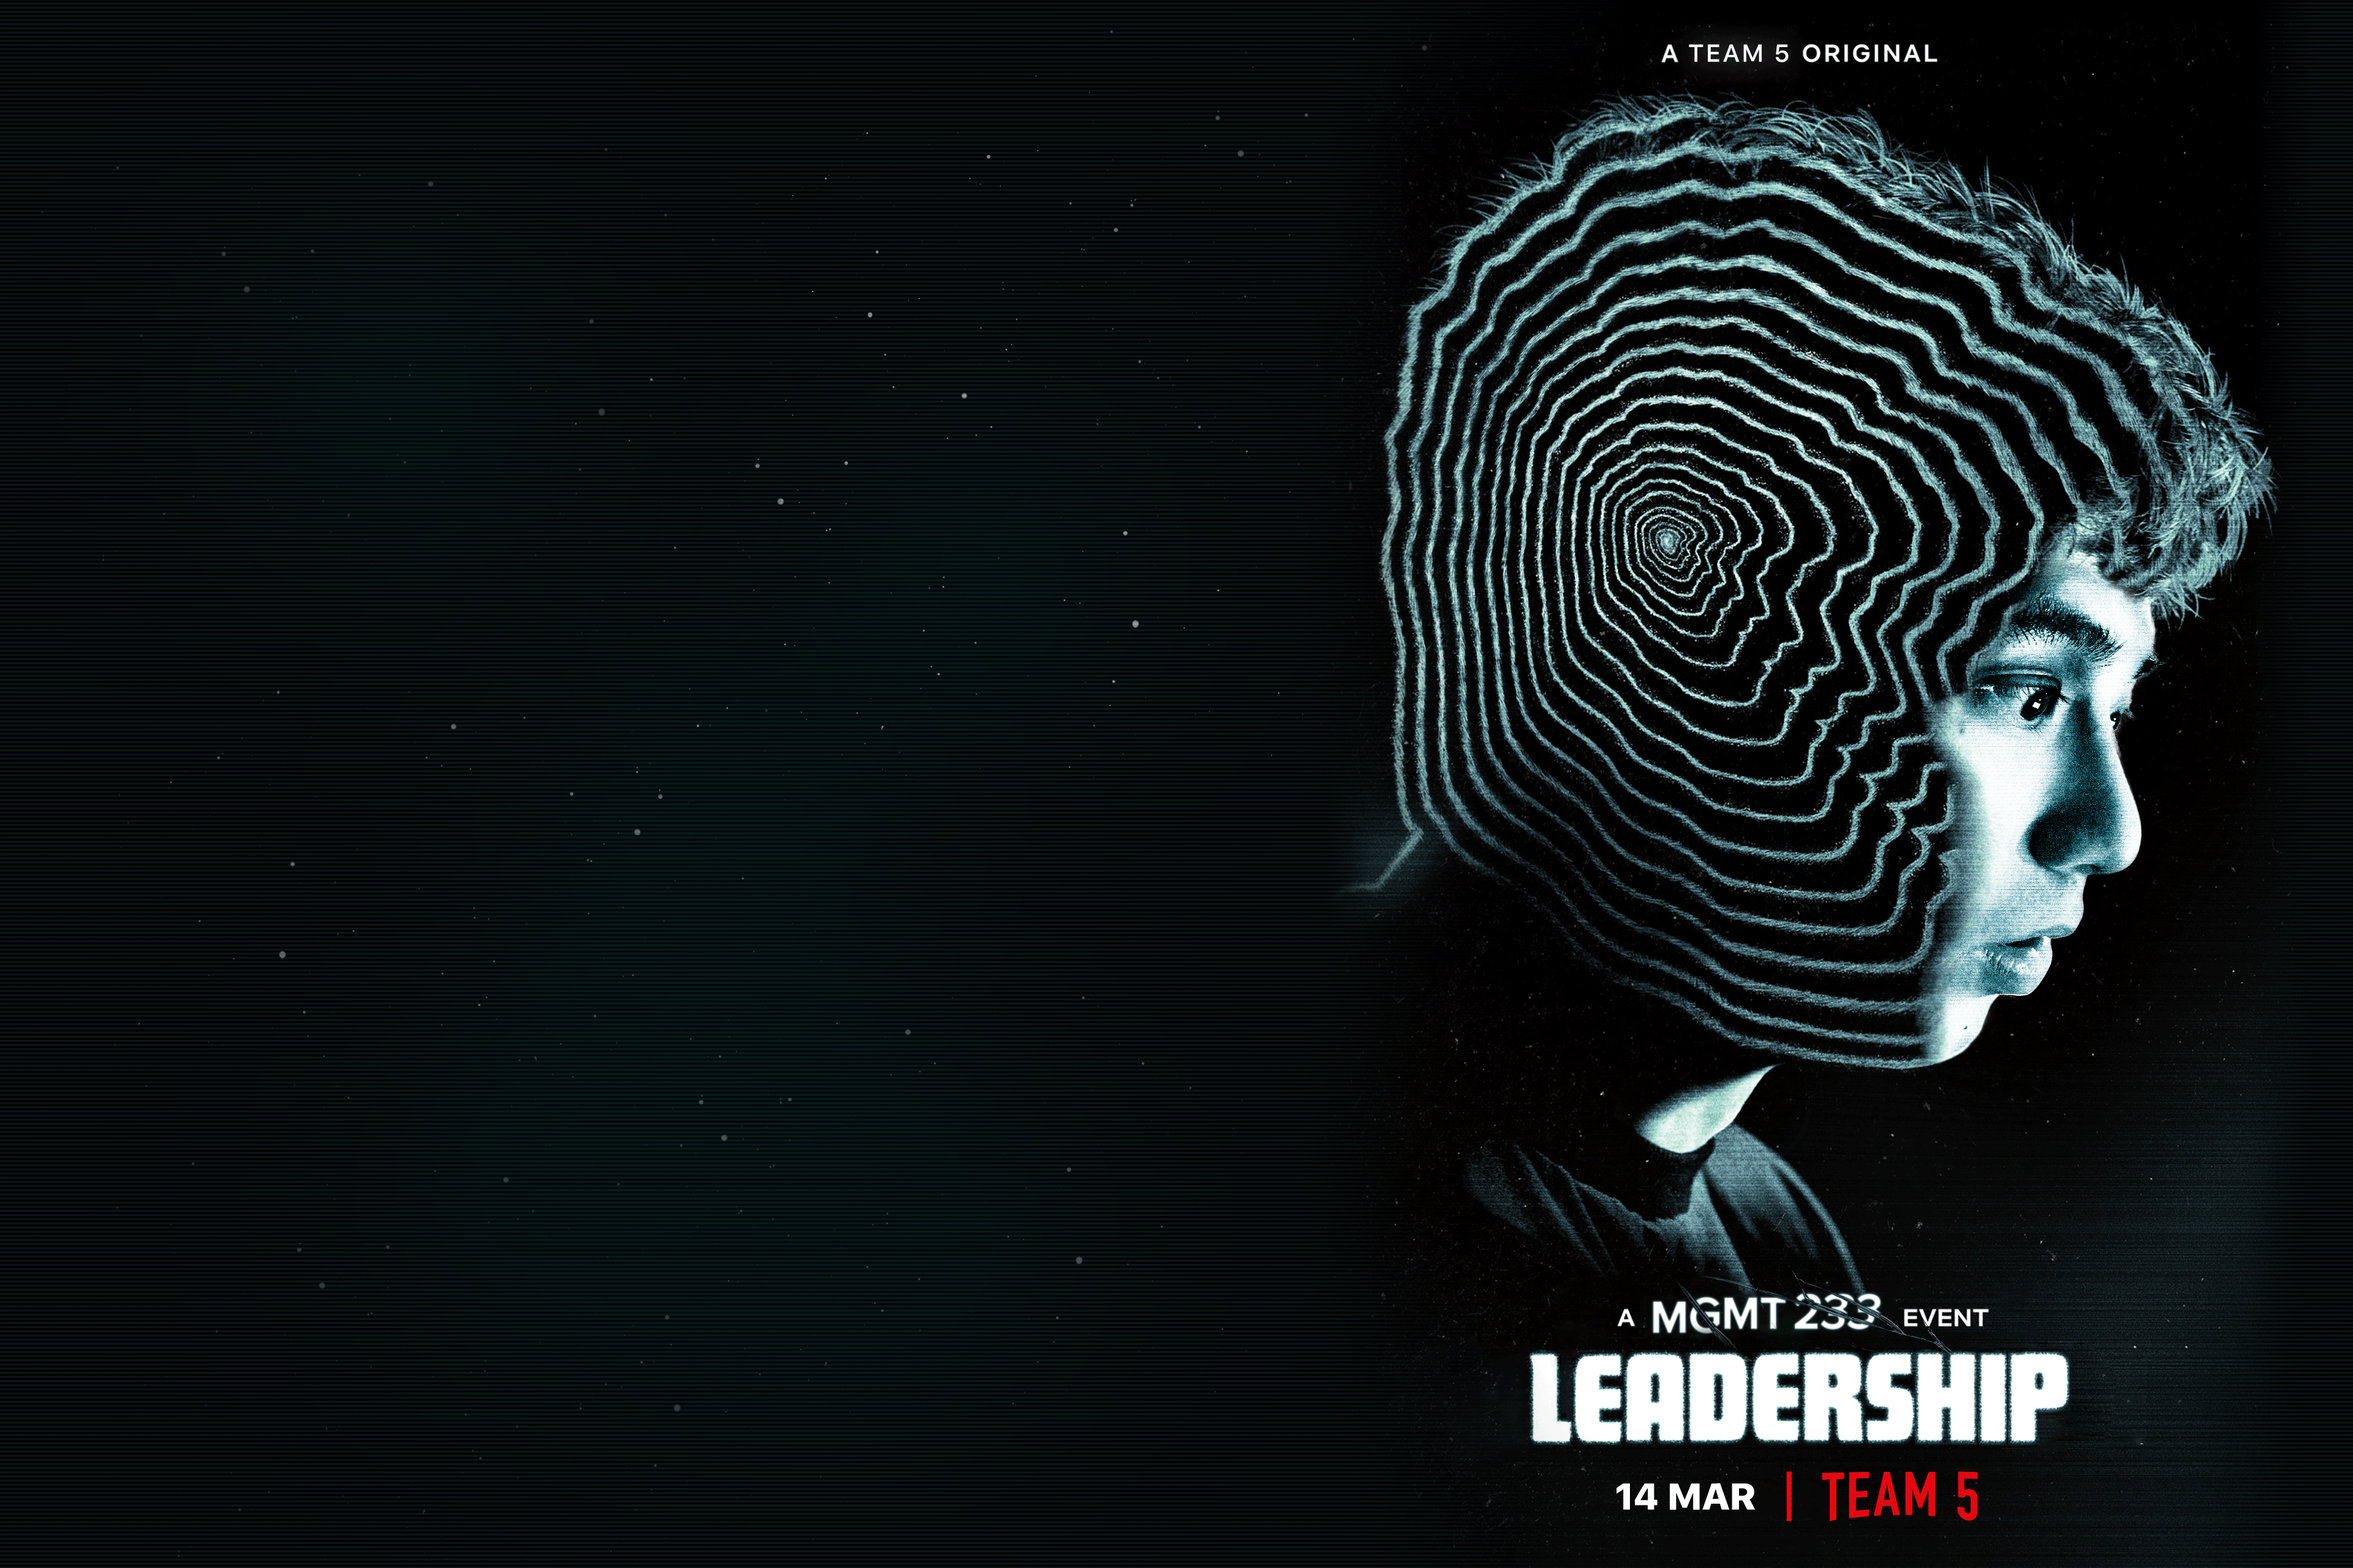
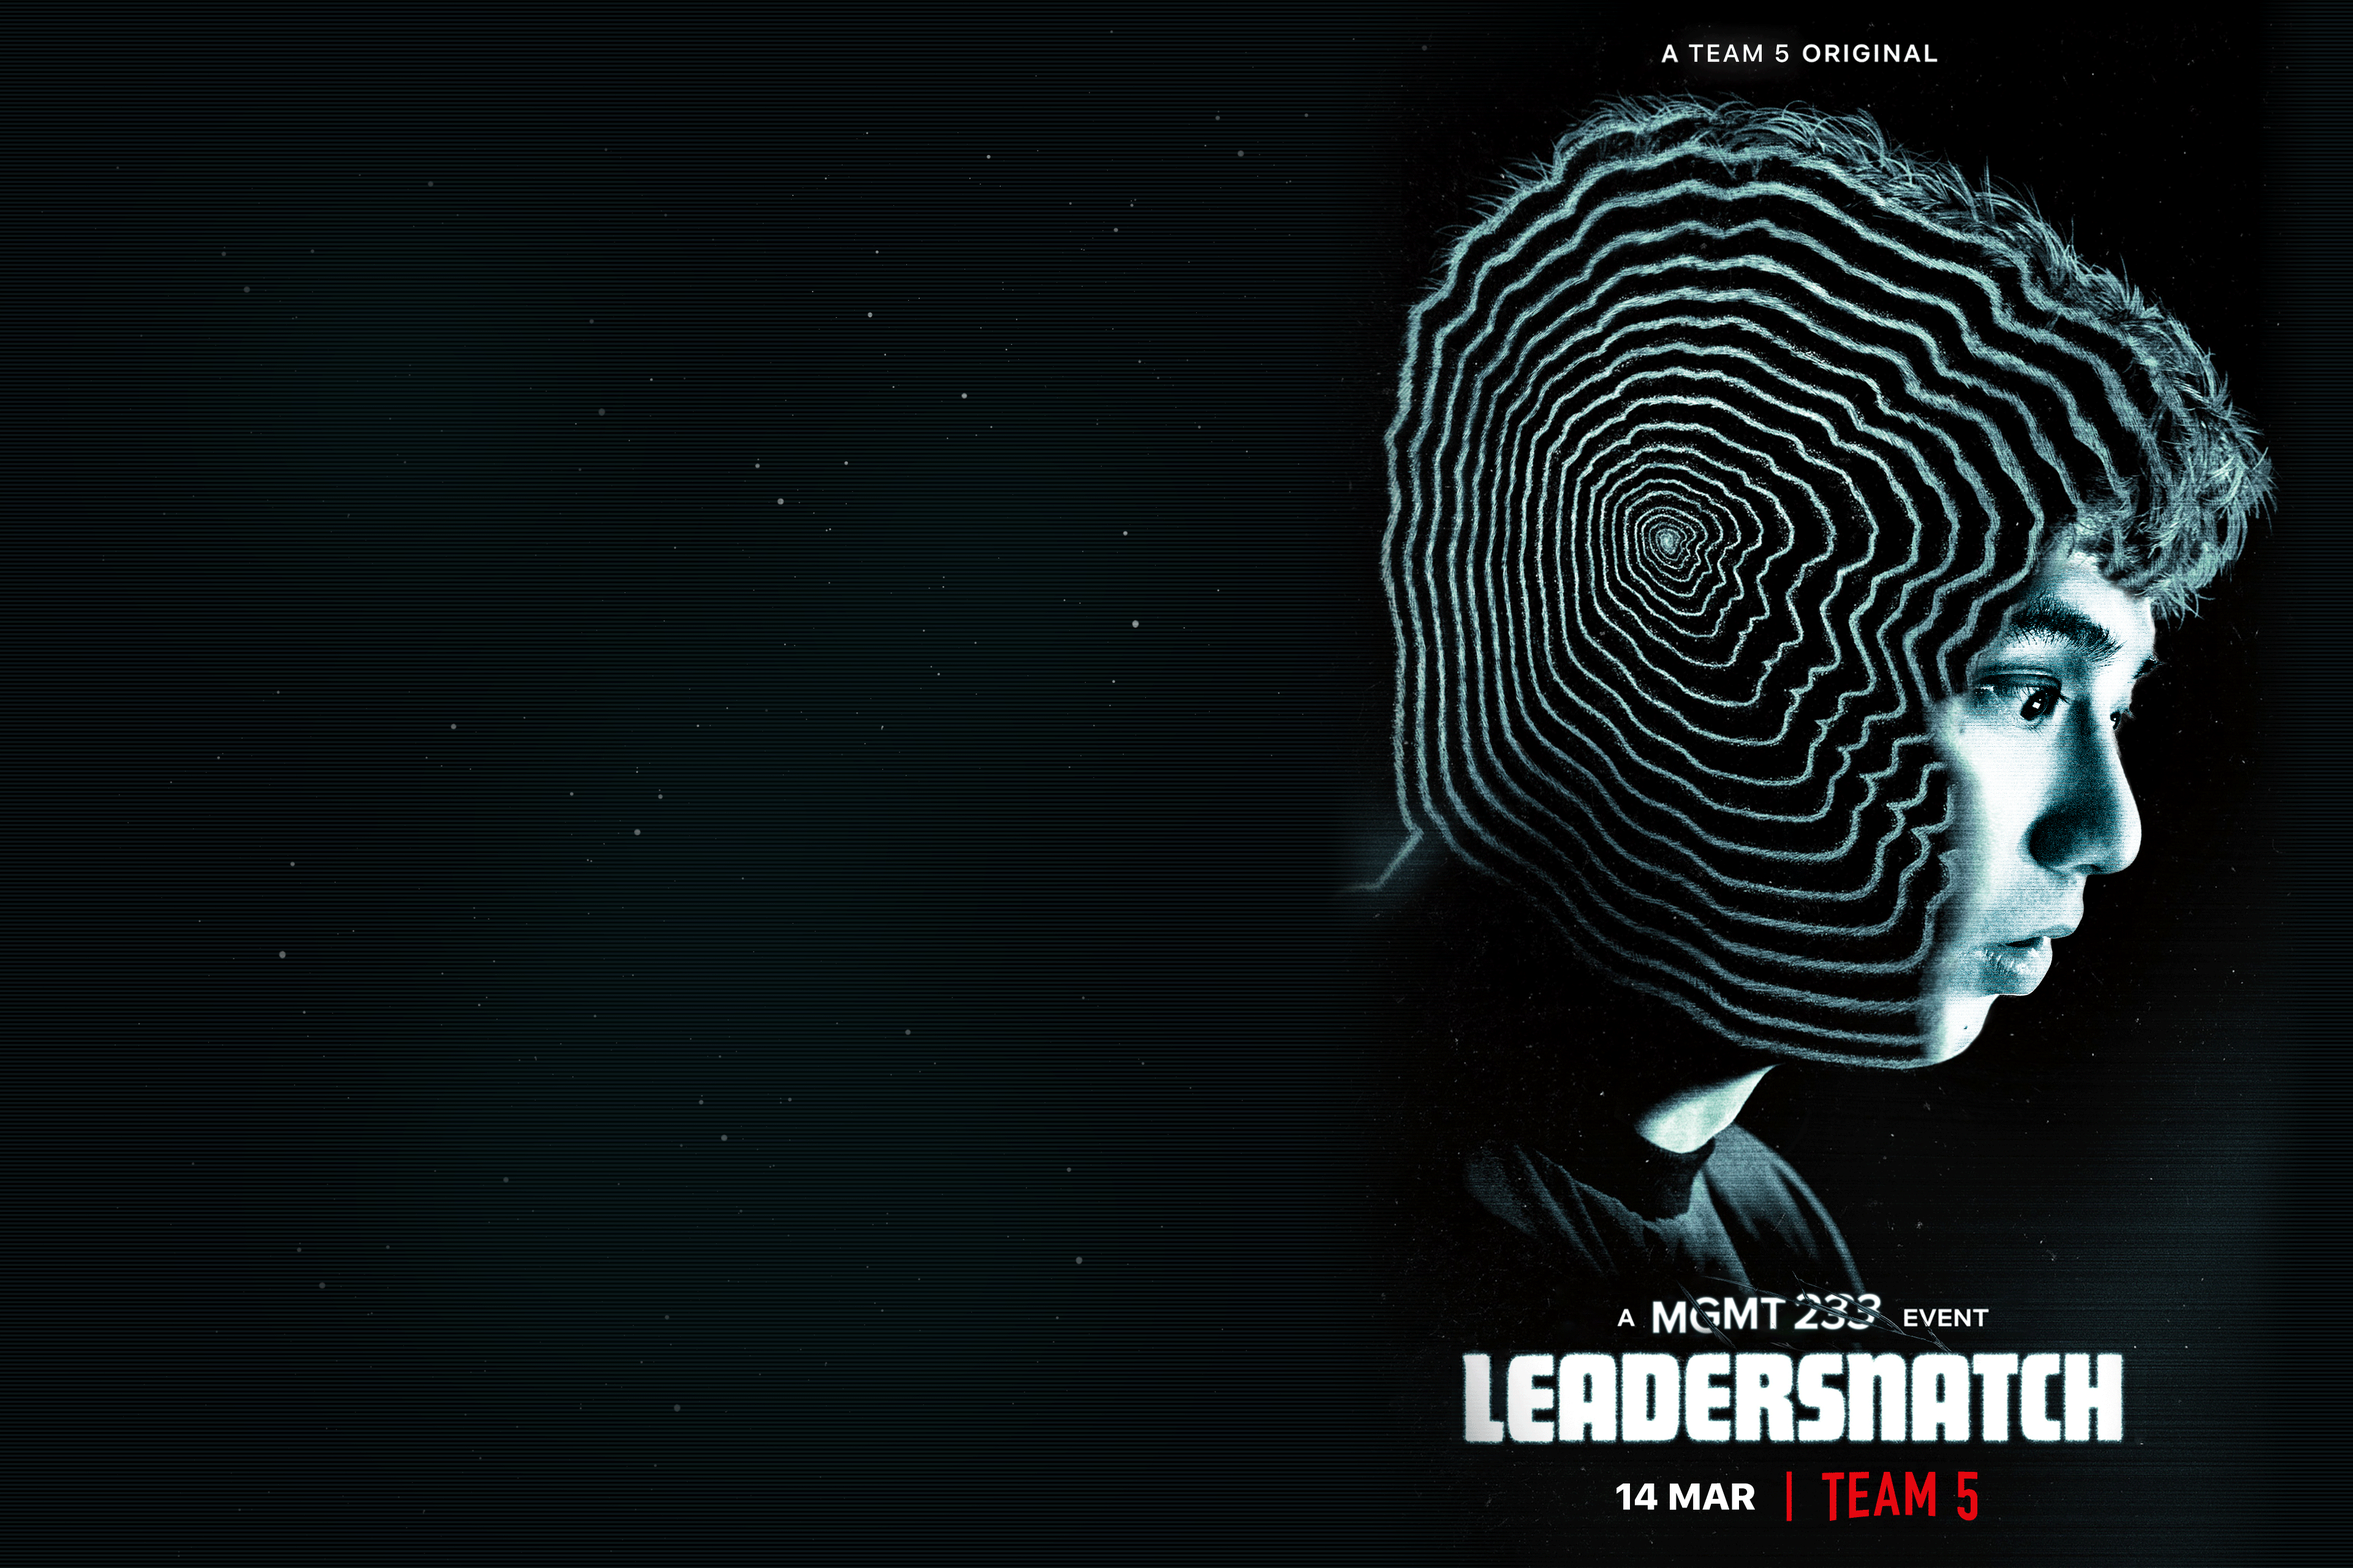
Test

Changed region(s): [[0.5938, 0.8438, 0.9062, 0.9375]]

diff --git a/imports/ui/BanderSnatch.jsx b/imports/ui/BanderSnatch.jsx
@@ -2,7 +2,7 @@ import React, { Component } from 'react';
 import { Card, Button, Progress, Row, Col } from 'antd';
 import ReactPlayer from 'react-player'
 import OptionsPage from '../ui/OptionsPage';
-import * as bandersnatch from '../../bandersnatch.json'
+import * as bandersnatch from '../../bandersnatch1.json'
 
 const ButtonGroup = Button.Group;
 
@@ -14,13 +14,13 @@ export default class BanderSnatch extends Component {
   render() {
 
     let scenario = FlowRouter.getParam('scenario').toUpperCase();
+    console.log(scenario)
 
     return (
       <div style={{ background: "black", height: '100vh' }}>
 
         <OptionsPage 
           options={bandersnatch.scenarios[scenario].options}
-          question={bandersnatch.scenarios[scenario].question}
           video={bandersnatch.scenarios[scenario].video}
           scenario = {scenario}
         />

diff --git a/imports/ui/Game.jsx b/imports/ui/Game.jsx
@@ -18,7 +18,7 @@ export default class Game extends Component {
         <Row style={{ background: "#000" }} type="flex" justify="end" align="middle">
 
           <div style={{ display: 'flex', position: 'absolute', width: '100%' }}>
-            <Button style={{ margin: 'auto', position: 'relative' }} className="glow-button start-game" href='/game/s1' >START GAME</Button>
+            <Button style={{ margin: 'auto', position: 'relative' }} className="glow-button start-game" href='/Intro-1' >START GAME</Button>
           </div>
 
           <div style={{ width: '100%', height: '100vh', minWidth: '50%', background: 'url("/images/bander_wallpaper.png")', backgroundRepeat: 'no-repeat', backgroundSize: 'contain', backgroundPosition: 'right' }}>

diff --git a/client/css/main.css b/client/css/main.css
@@ -36,12 +36,22 @@ a.ant-btn.glow-button {
     transform: scale(1);
   }
 }
-
+/* 
 .glow-button {
   color: rgba(255, 255, 255, 1);
   box-shadow: 120px 80px 40px 20px #0ff !important;
   /* name-duration-function(ease,eas-in,linear)-delay-count-direction */
-}
+/* } */ */
+
+.glow-button {
+  transition: all 0.5s;
+  background-color: rgba(255, 255, 255, 1);
+  box-shadow: 0 0px 30px rgba(0, 118, 139, 0.8);
+ }
+ .glow-button:hover {
+  transition: all 0.5s;
+  box-shadow: 0 0px 50px rgba(0, 118, 139, 0.9);
+ }
 
 @import url("https://fonts.googleapis.com/css?family=Roboto:300");
 *,

diff --git a/client/css/sidebar.css b/client/css/sidebar.css
@@ -95,12 +95,14 @@ body {
     padding: 15px 60px;
     transition: all 250ms;
 	color: white;
-	text-transform: capitalize;
+    text-transform: capitalize;
+    
 }
 
 #items .item:hover {
     padding: 15px 45px;
     background-color: rgba(52, 56, 56, 0.2);
+    text-decoration: underline;
 }
 
 #btn, #btn * {

diff --git a/client/main.js b/client/main.js
@@ -41,7 +41,7 @@ FlowRouter.route('/case-studies', {
   }
 });
 
-FlowRouter.route('/game/:scenario', {
+FlowRouter.route('/:scenario', {
   action: function (params, queryParams) {
     mount(PublicLayout, {
       content: <BanderSnatch />

diff --git a/client/main.html b/client/main.html
@@ -1,5 +1,5 @@
 <head>
-  <title>leadership-mod</title>
+  <title>Leadersnatch</title>
 </head>
 
 <body>
